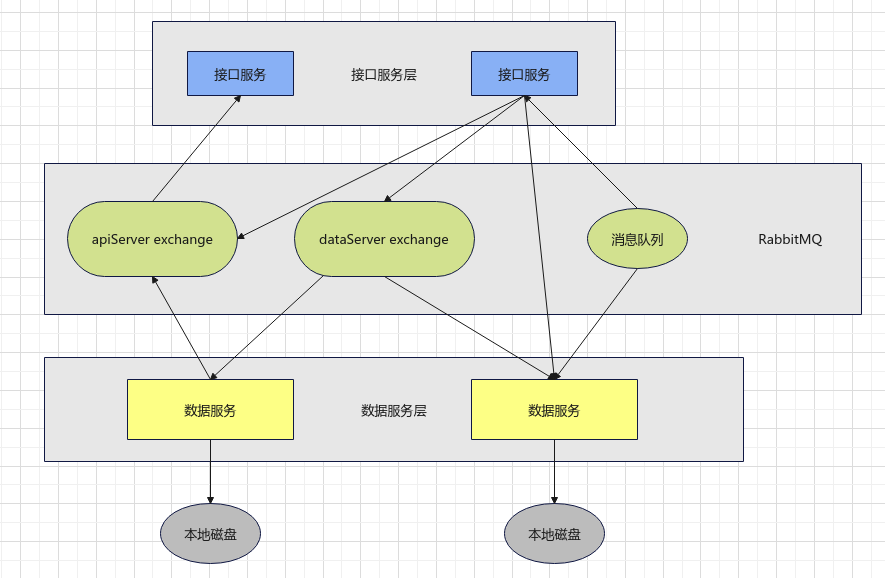
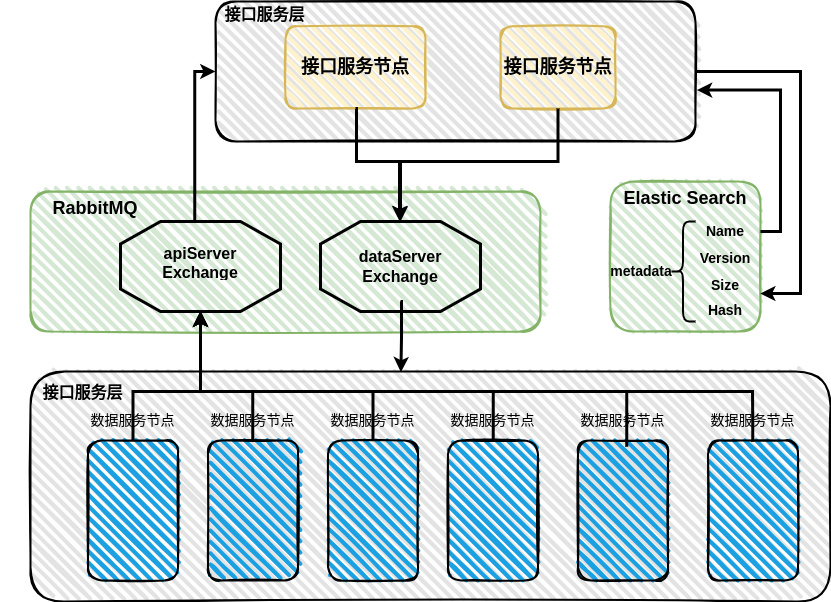
some introduct

diff --git a/README.md b/README.md
@@ -1,17 +1,7 @@
+# 分布式对象存储系统
 # Distributed-object-storage-system
 
-# 启动方式
-#### 数据服务节点启动
-```
-export RABBITMQ_SERVER=amqp://test:test@172.17.0.2:5672
-LISTEN_ADDRESS=10.29.1.1:12345 STORAGE_ROOT=/tmp/1 go run dataServer/dataServer.go
-```
-#### 接口服务节点启动
-```
-LISTEN_ADDRESS=10.29.2.2:12345 go run ApiServer/ApiServer.go
-```
-
-## 接口和数据存储分离的架构
+## 1、接口和数据存储分离的架构
 
 ![1](./image/1.png)
 
@@ -19,15 +9,52 @@ LISTEN_ADDRESS=10.29.2.2:12345 go run ApiServer/ApiServer.go
 
 **接口服务层**：提供了对外的REST接口
 
-**`RabbitMQ`**：负责心跳包和消息的传输
+**中间件**：
 
-	--`ApiServer exchange`：用于心跳包的传输。所有**接口服务节点**绑定该`exchange`，所有发往该`exchange`的消息都会被转发给绑定它的所有消息队列
+* **RabbitMQ**：负责心跳包和消息的传输
 
-	--`DataServer exchange`：用于定位消息的传输。所有**数据服务节点**绑定该exchange，用于接收接口服务的定位消息。
+&emsp;&emsp;	--`ApiServer exchange`：用于心跳包的传输。所有**接口服务节点**绑定该`exchange`，所有发往该`exchange`的消息都会被转发给绑定它的所有消息队列
+
+&emsp;&emsp;	--`DataServer exchange`：用于定位消息的传输。所有**数据服务节点**绑定该exchange，用于接收接口服务的定位消息。
+* **Elastic Search**:负责存储元数据
 
 **数据服务层**：提供了数据的存储功能
 
-### 对于心跳信息的处理：
+## 2、基础环境搭建以及配置
+绑定一台服务器上的多个ip地址，配置六个数据服务节点和两个接口服务节点：
+```
+ifconfig enp3s0:1 10.29.1.1/16
+ifconfig enp3s0:2 10.29.1.2/16
+ifconfig enp3s0:3 10.29.1.3/16
+ifconfig enp3s0:4 10.29.1.4/16
+ifconfig enp3s0:5 10.29.1.5/16
+ifconfig enp3s0:6 10.29.1.6/16
+ifconfig enp3s0:7 10.29.2.1/16
+ifconfig enp3s0:8 10.29.2.1/16
+```
+RabbitMQ采用docker容器的方式部署，根据本地容器的相关信息，其ip和端口信息如下：
+```
+172.17.0.2：5672
+```
+ElasticSearch也以docker容器方式部署，但由于本机硬件限制，所以部署在内网另一台服务器上，其ip和端口信息如下：
+```
+192.168.178.176：9200
+```
+此处的配置信息为
+```
+export ES_SERVER=192.168.178.176:9200
+export RABBITMQ_SERVER=amqp://test:test@172.17.0.2:5672
+```
+数据服务启动时（以数据服务节点3为例子），`STORAGE_ROOT`为存储根目录
+```
+LISTEN_ADDRESS=10.29.1.3:12345 STORAGE_ROOT=/tmp/3 go run dataServer/dataServer.go
+```
+接口服务启动时（以接口服务节点1为例子）
+```
+LISTEN_ADDRESS=10.29.2.1:12345 go run ApiServer/ApiServer.go
+```
+
+## 3、对于心跳信息的处理
 
 #### 从接口服务（`ApiServer/heartbeat`）的角度看：
 
@@ -37,15 +64,42 @@ LISTEN_ADDRESS=10.29.2.2:12345 go run ApiServer/ApiServer.go
 
 每隔5秒向`RabbitMQ`的`apiServers exchange`发送一次心跳信息，即向所有接口服务节点注册自己的存在。
 
+![1](./image/2.png)
+
+## 4、数据服务节点启动
+除了心跳信息的发送，数据服务在启动时还执行两个操作
+### 4.1、存储对象收集
+&emsp;&emsp;数据服务节点首先在本地磁盘上自检，将本地磁盘上存储的对象名称(hash值)收集到本地的内存中，
+在此我们创建了一个`map[string]int`的映射结构，并将其作为数据服务节点的对象池。
+
+![c](./image/4-1.png)
+
+&emsp;&emsp;采用这种方式具有优缺点：
+* 优点是：在未来我们需要查询某一对象具体存放位置时，无需迫使数据服务节点频繁的访问其磁盘，大大加快了未来查询操作的时间。
+* 缺点是：导致数据服务节点开机启动时间过长，启动后过一段时间才能正常工作。
+
+### 4.2、定位服务启动
+&emsp;&emsp;首先创建一个`rabbitmq.RabbitMQ`结构体,并将其绑定到`dataServer Exchange`上。
+```
+q := rabbitmq.New(os.Getenv("RABBITMQ_SERVER"))
+q.Bind("dataServers")
+```
+&emsp;&emsp;这样，数据服务节点就能接收到所有从接口服务节点传送来的对象`hash值`，
+并通过查询本地对象池中是否存在该对象`hash值`，
+从而返回自身的`ip地址`。
+
 ### 对于PUT操作：
 
-1、命令 `curl -v 10.29.2.2:12345/objects/test2 -XPUT -d"this is object test2"`，`10.29.2.2:12345`为接口服务节点。
-
-2、通过心跳包程序（`ApiServer/heartbeat/apiserver.go`)中的`ChooseRandomDataServer()`函数选择`dataServer`变量里注册的一个数据服务节点，假设选定的为`10.29.1.1：12345`数据服务节点
-
-3、替换HTTP包中的ip地址，即`10.29.2.2:12345 -> 10.29.1.1：12345`。此时数据包就会被发往`10.29.1.1：12345`数据服务节点。
-
-4、接下来由数据服务节点来执行数据更新的操作。
+1、由于加入了数据校验过程，所以在传输数据之前我们计算数据的hash值，假设我们现在传输的对象名为`test4`,
+对象内容为`this object will have only 1 instance`,
+通过对象内容计算hash值为`aWKQ2BipX94sb+h3xdTbWYAu1yzjn5vyFG2SOwUQIXY=`
+```bash
+echo -n "this object will have only 1 instance" | openssl dgst -sha256 -binary | base64
+```
+所以，我们PUT操作的命令为
+```
+curl -v 10.29.2.1:12345/objects/test4 -XPUT -d"this object will have only 1 instance" -H "Digest: SHA-256=aWKQ2BipX94sb+h3xdTbWYAu1yzjn5vyFG2SOwUQIXY="
+```
 
 ### 对于GET操作：
 
